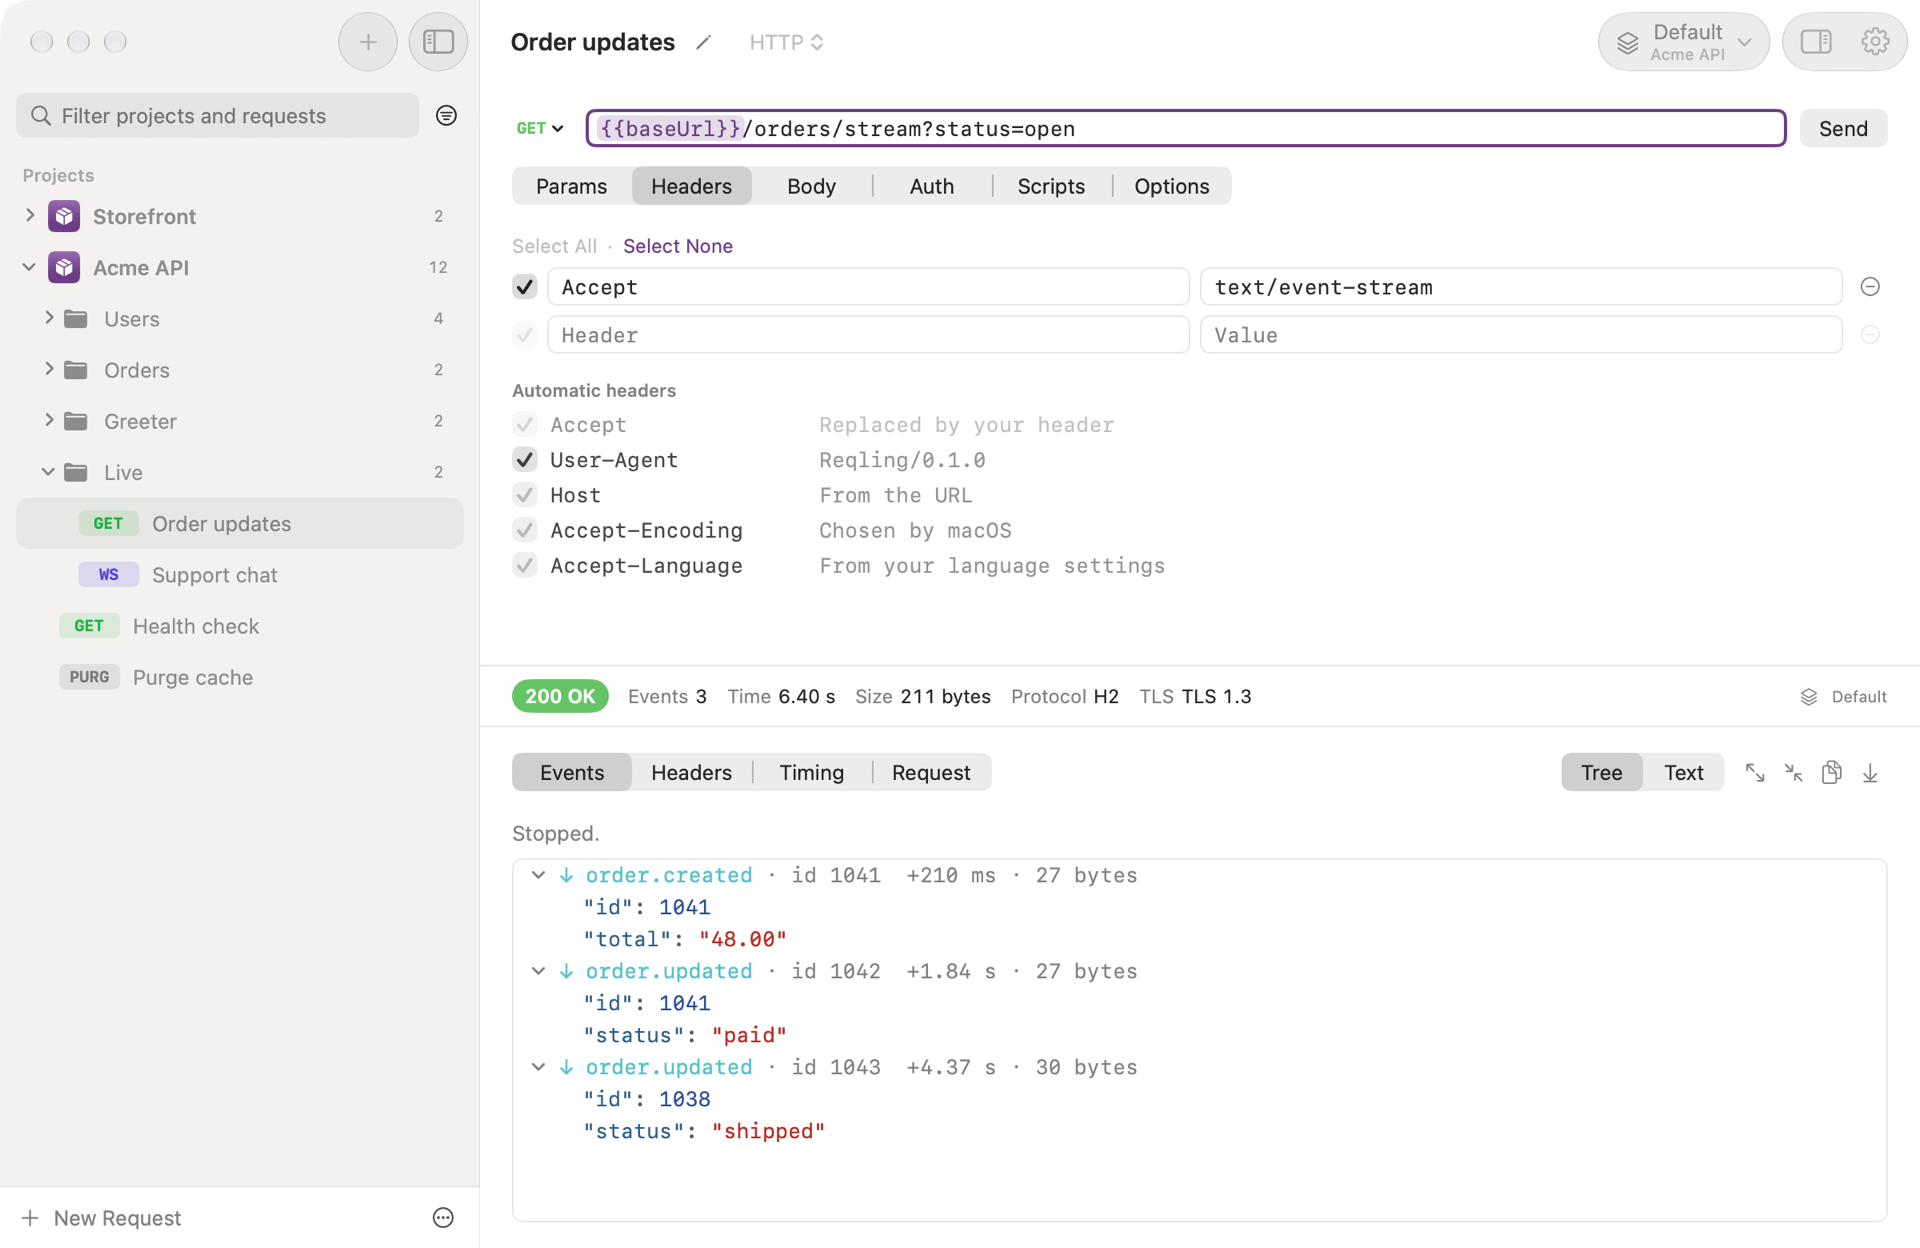
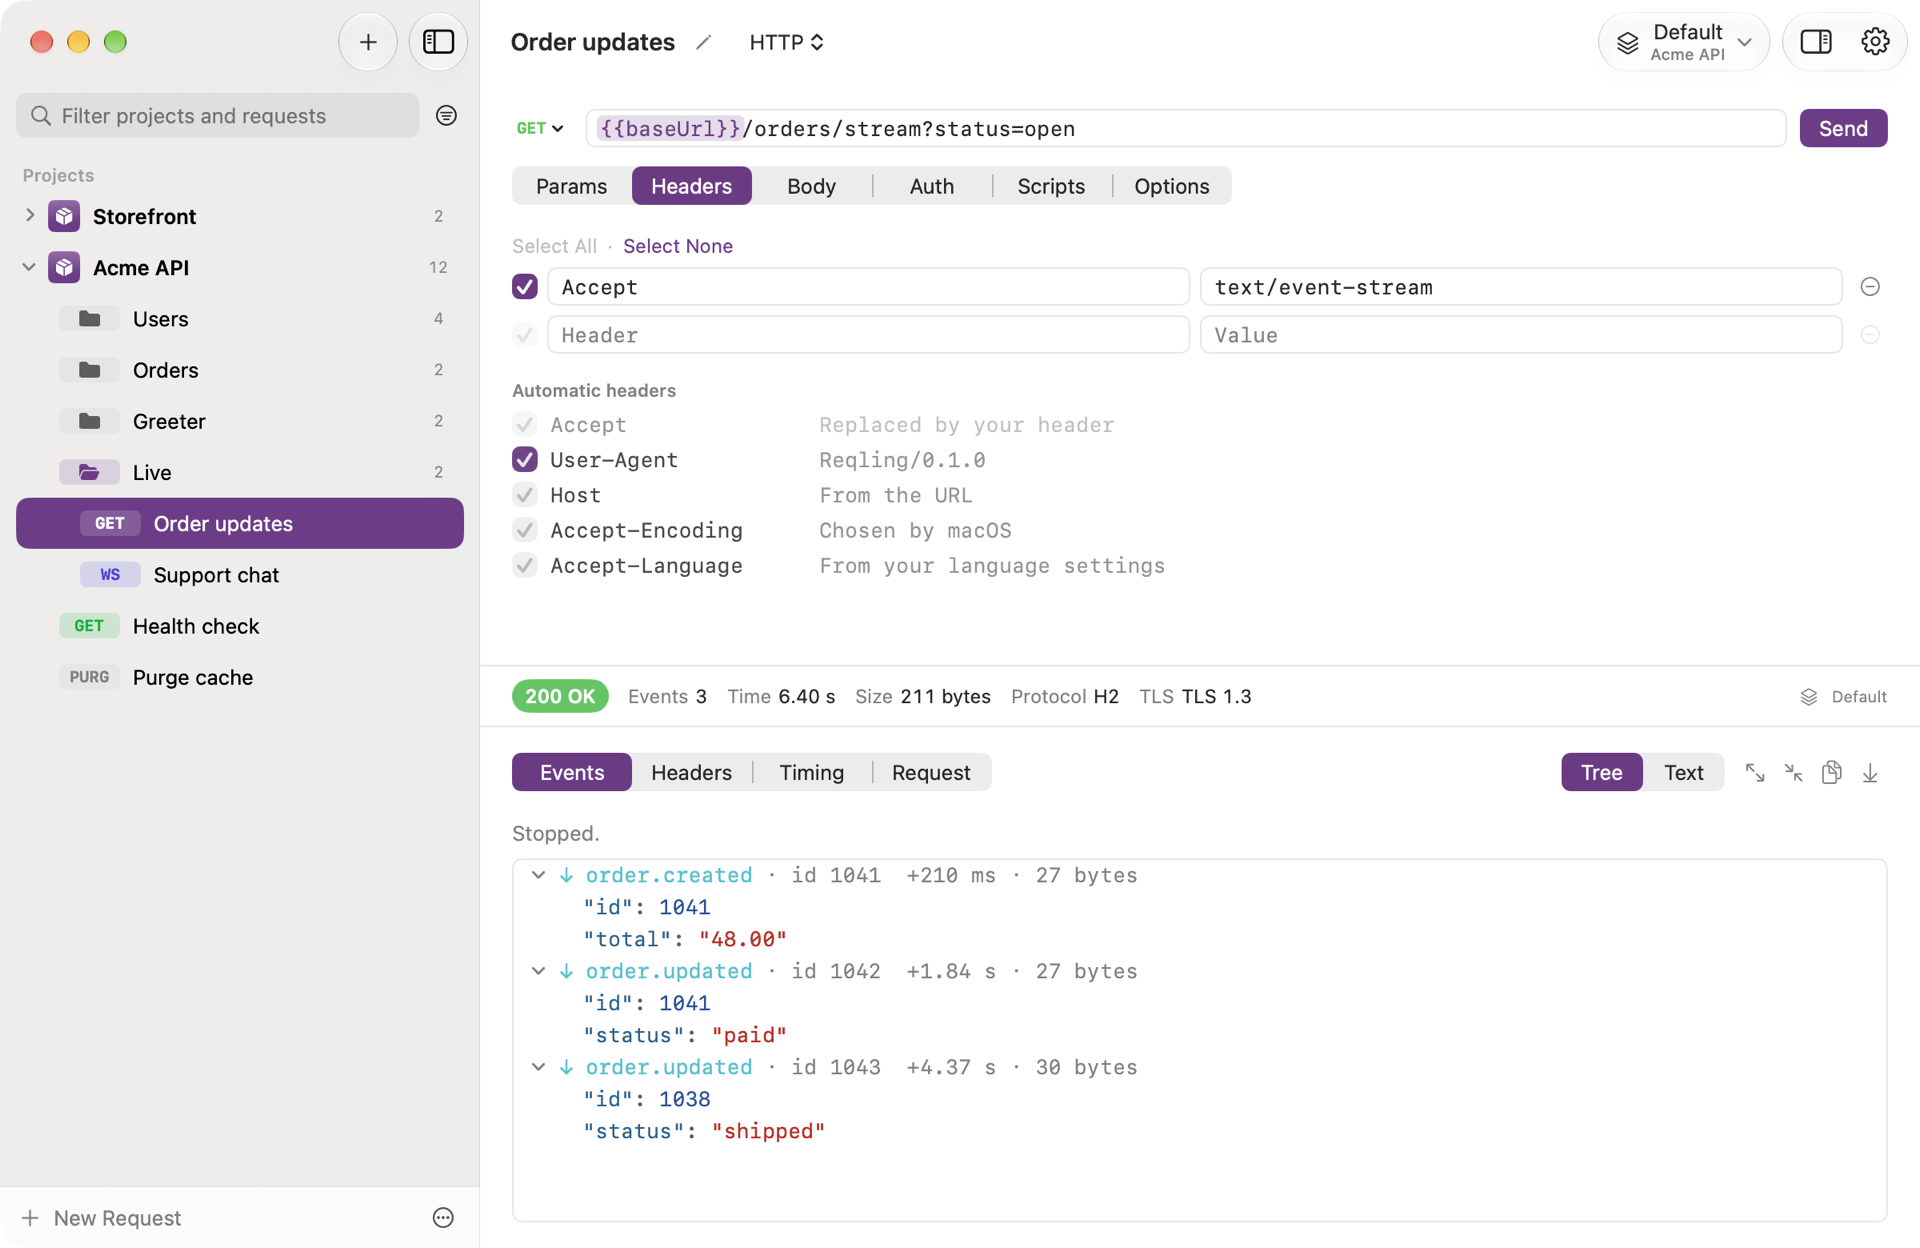
Recapture the screenshots with the window active and path variables
Every capture now shows the window as it looks in use, with the sidebar's row selected in the accent, and the request capture's Get user takes `:userId` as a path variable, which its alt text names. The link preview is re-rendered from the new request capture, and AGENTS.md notes that capturing takes focus and wants the Multicolor accent.

diff --git a/index.html b/index.html
@@ -143,7 +143,7 @@
                 <source srcset="images/request-dark.webp" type="image/webp" data-theme="dark"
                     media="(prefers-color-scheme: dark)">
                 <img class="screenshot" src="images/request-light.webp"
-                    alt="The Reqling window with the Acme API project in the sidebar and its Get user request open: a GET to {{baseUrl}}/users/{{userId}} with include and trace parameters, above a 200 OK response in 86 ms whose JSON tree shows Ada Lovelace's id, name, email, roles, and team."
+                    alt="The Reqling window with the Acme API project in the sidebar and its Get user request open: a GET to {{baseUrl}}/users/:userId with include and trace parameters and its userId path variable, above a 200 OK response in 86 ms whose JSON tree shows Ada Lovelace's id, name, email, roles, and team."
                     width="1920" height="1248" decoding="async" fetchpriority="high">
             </picture>
         </div>

diff --git a/AGENTS.md b/AGENTS.md
@@ -22,7 +22,7 @@ Built per the global `static-site-rules` skill, as a sibling of the Alveary, Chr
 
 `images/{request,graphql,grpc,events,websocket,scripts,batch}-{light,dark}.webp` are 1920x1248 captures of the main window from `main`'s screenshot mode, which seeds a fixed demo project (`ScreenshotDemoProject`), so the alt text describes that data. To regenerate:
 
-1. On `main`, run `./scripts/screenshots.sh -b` on a Retina display. It writes 2400x1560 PNGs of the window alone, with transparent rounded corners, to `.build/screenshots/<scene>-<light|dark>.png`.
+1. On `main`, run `./scripts/screenshots.sh -b` on a Retina display with the Multicolor accent, or controls take the system accent instead of the app's purple. Each scene and theme takes focus while it's captured, so the window shows its active appearance. It writes 2400x1560 PNGs of the window alone, with transparent rounded corners, to `.build/screenshots/<scene>-<light|dark>.png`.
 2. Downscale each by four fifths, which keeps both sides integral: `sips -z 1248 1920 <scene>-<theme>.png --out <tmp>.png`.
 3. `cwebp -lossless -z 9 -alpha_q 100 <tmp>.png -o images/<scene>-<theme>.webp`. Every capture shares one size, repeated in `.screenshot`'s `aspect-ratio` and each `<img>`'s `width`/`height`.
 4. Update the alt text if the demo data changed, and re-render the link preview if `request-dark.webp` did.
